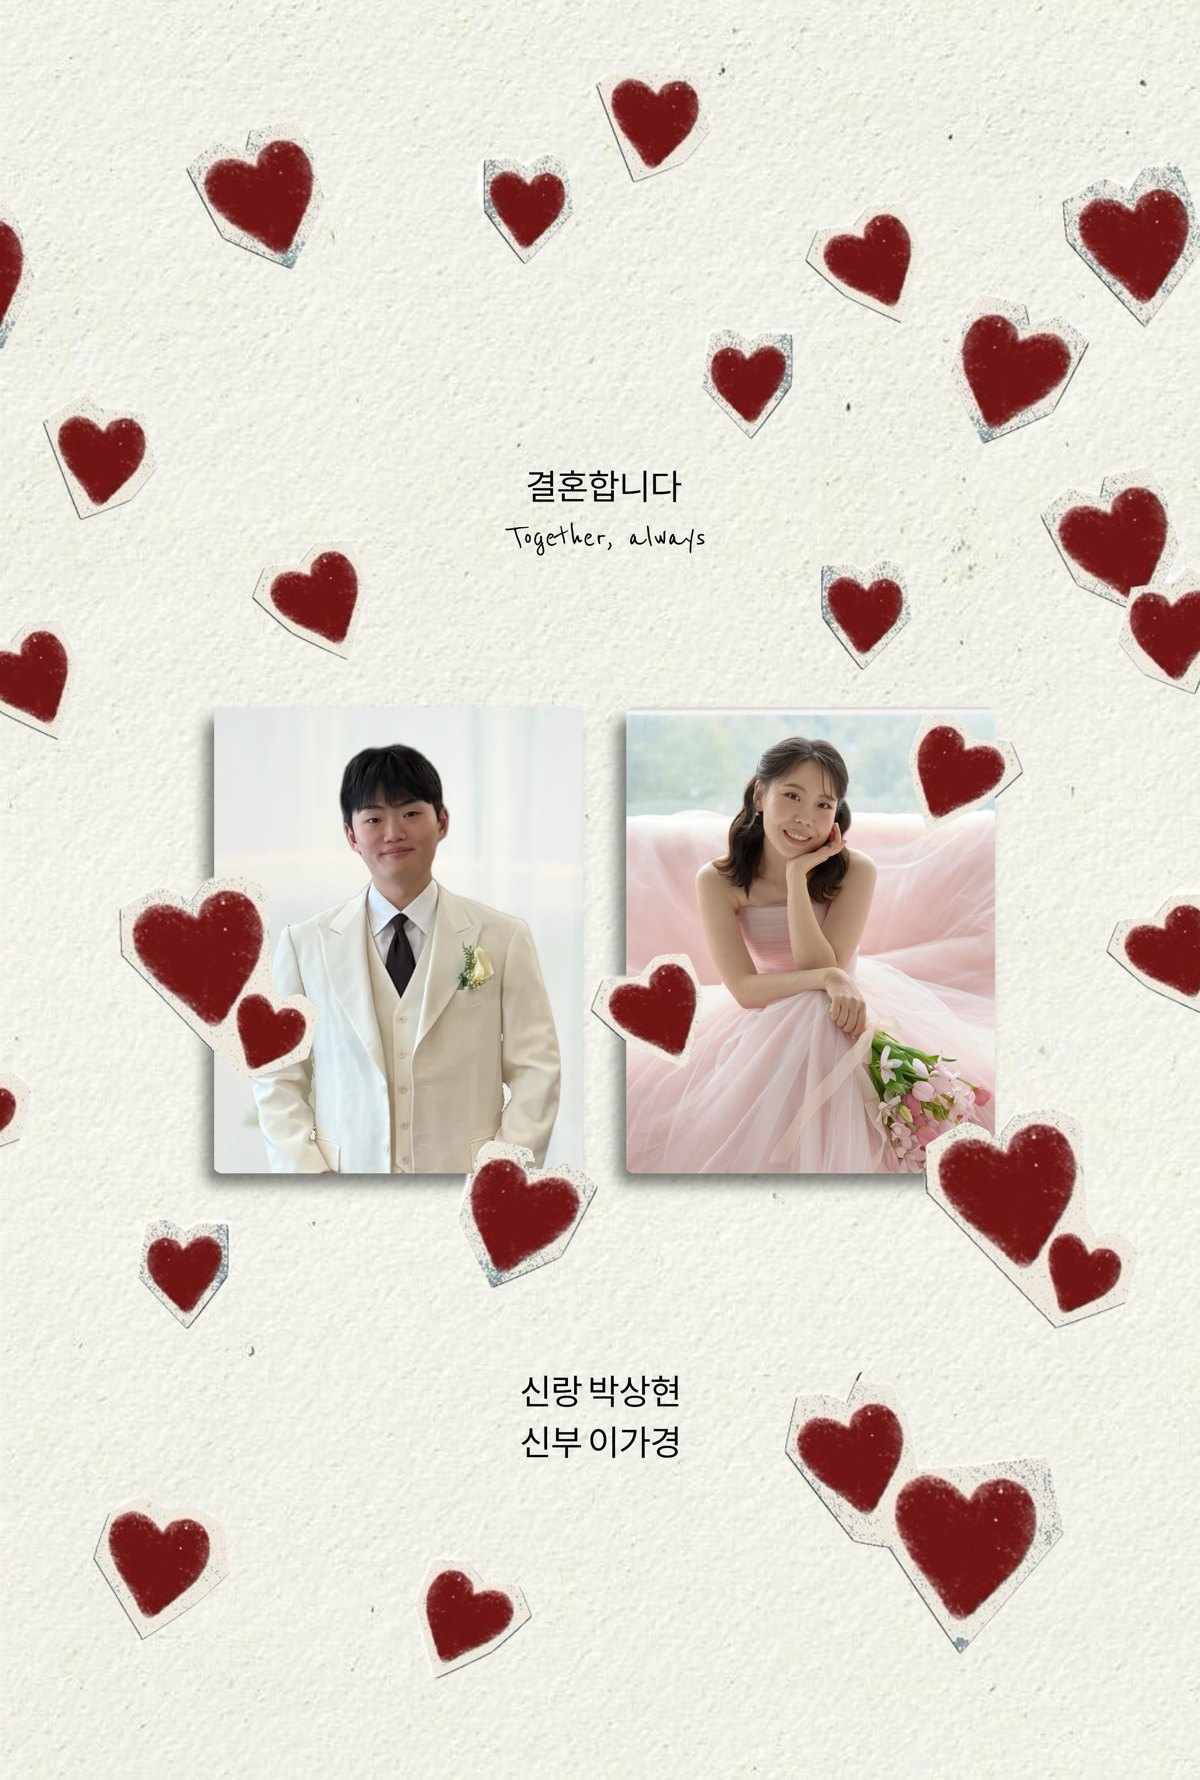
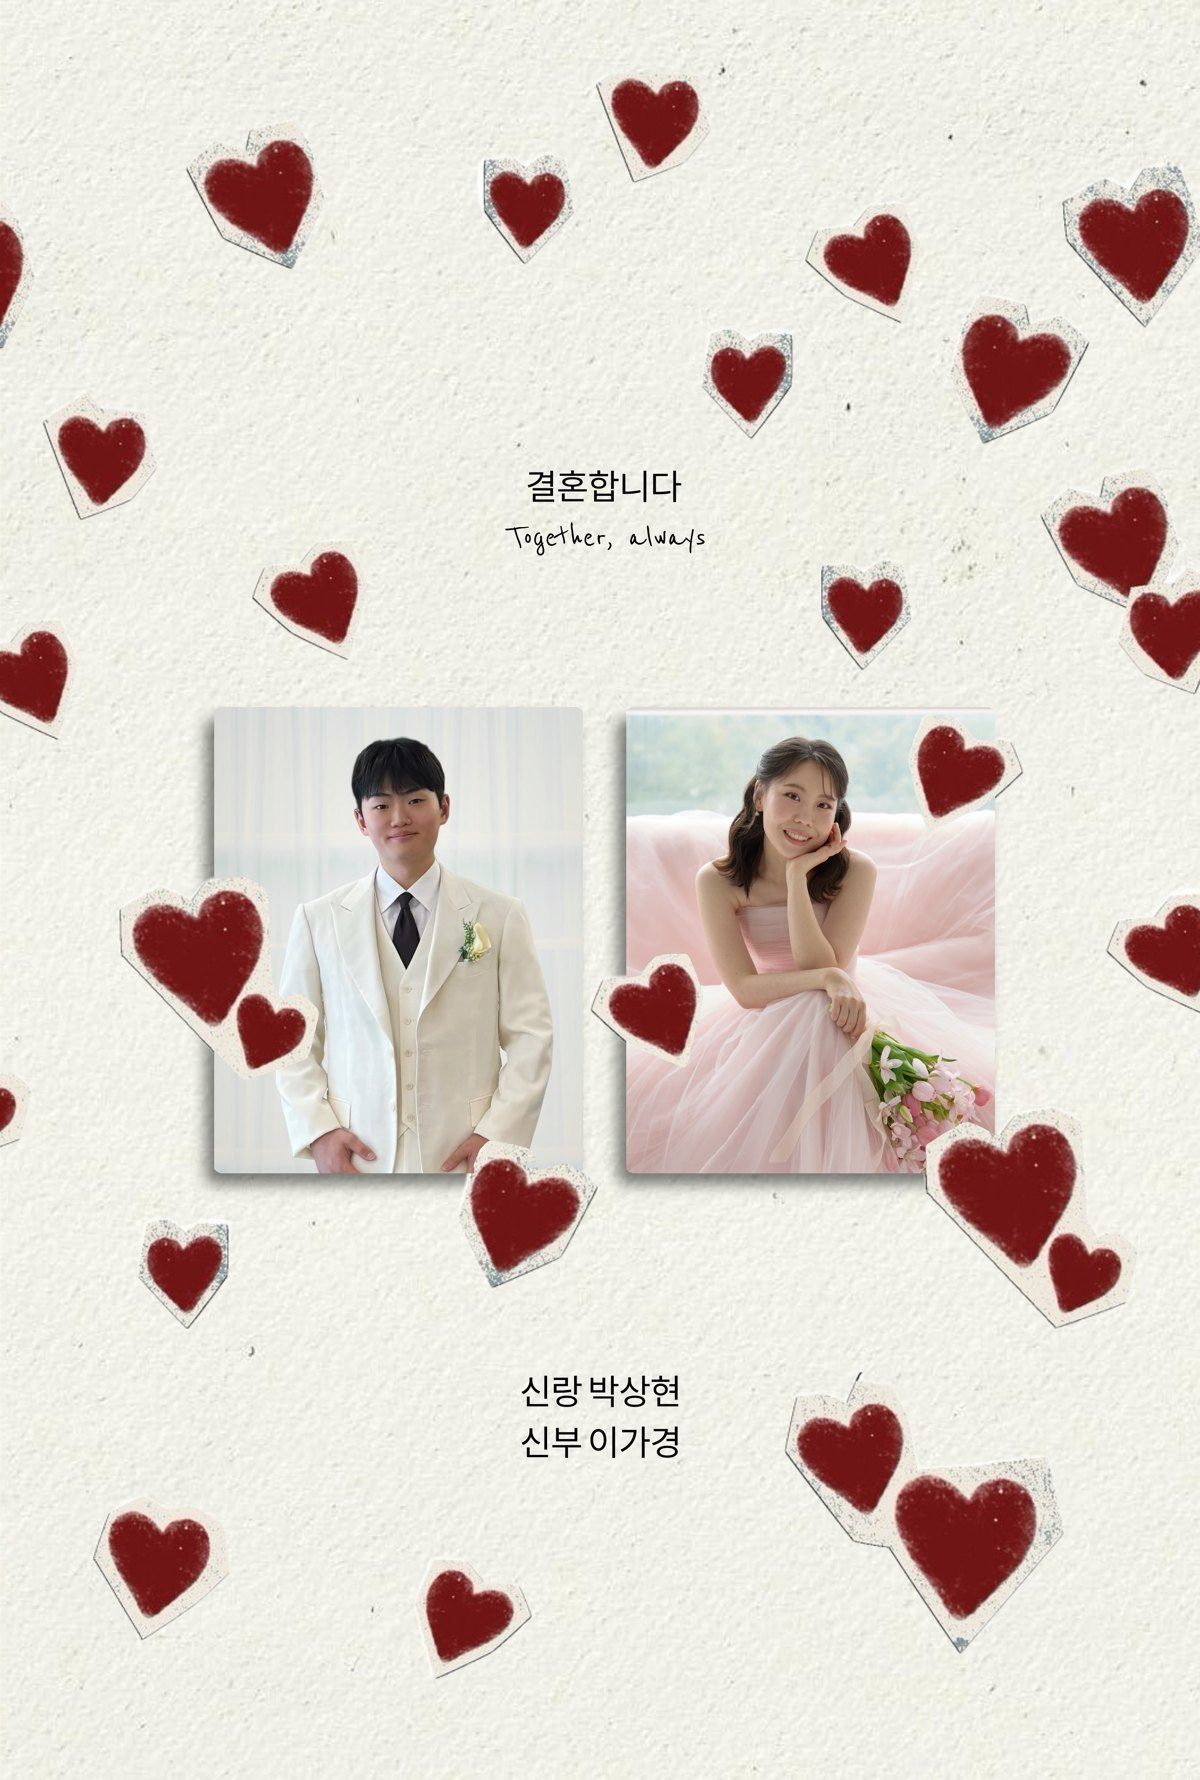
Cover: new groom photo on a window-curtain background

Changed region(s): [[0.185, 0.4017, 0.4933, 0.6798]]

diff --git a/index.html b/index.html
@@ -7,7 +7,7 @@
   <title>박상현 ♥ 이가경 결혼합니다</title>
   <meta property="og:title" content="박상현 ♥ 이가경 결혼합니다">
   <meta property="og:description" content="2027년 2월 13일 토요일 낮 12시 10분">
-  <meta property="og:image" content="img/cover.jpg?v=21">
+  <meta property="og:image" content="img/cover.jpg?v=24">
   <link rel="preconnect" href="https://fonts.googleapis.com">
   <link rel="preconnect" href="https://fonts.gstatic.com" crossorigin>
   <link
@@ -29,7 +29,7 @@
 
     <!-- 1. 인트로 -->
     <section class="intro" id="intro">
-      <img src="img/cover.jpg?v=21" alt="박상현 이가경 결혼합니다">
+      <img src="img/cover.jpg?v=24" alt="박상현 이가경 결혼합니다">
     </section>
 
     <!-- 2. Our Wedding day -->
